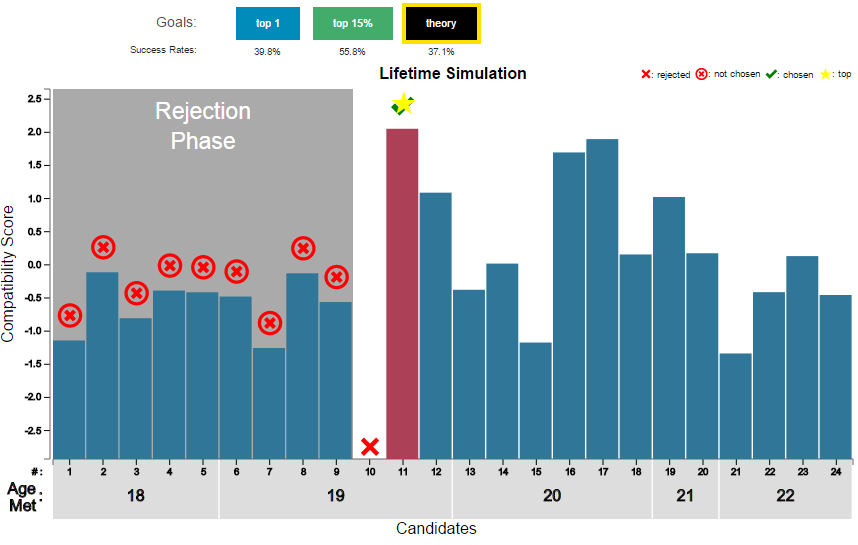
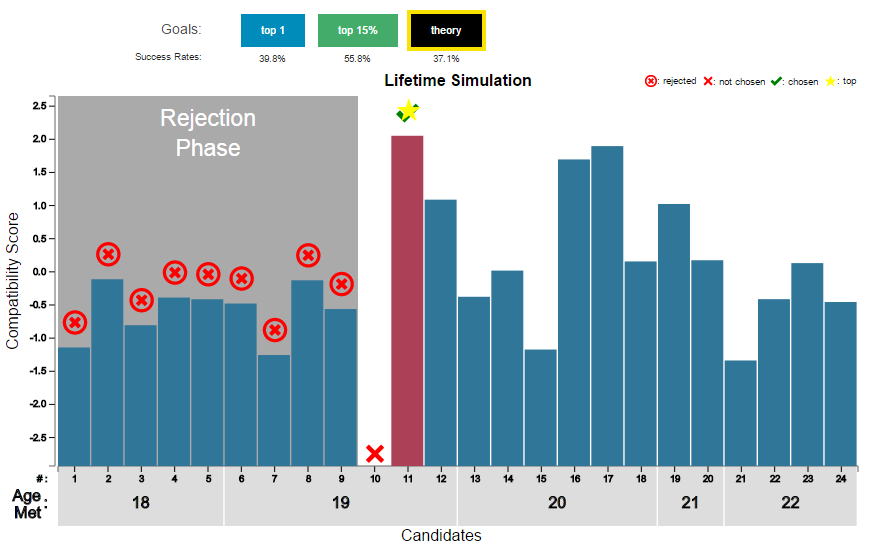
Added some doc images.

diff --git a/interactive/static/js/detailViz.js b/interactive/static/js/detailViz.js
@@ -430,8 +430,8 @@ var app = app || {};
         .attr('transform', 'translate('+left+', '+top+')')
         .text(': ' + text);
     }
-    drawMarkerLegend(app.images.remove, 'red', 'rejected', 0)
-    drawMarkerLegend(app.images.remove2, 'red', 'not chosen', 1)
+    drawMarkerLegend(app.images.remove2, 'red', 'rejected', 0)
+    drawMarkerLegend(app.images.remove, 'red', 'not chosen', 1)
     drawMarkerLegend(app.images.ok, 'green', 'chosen', 2)
     drawMarkerLegend(app.images.star, 'yellow', 'top', 3)
   };
